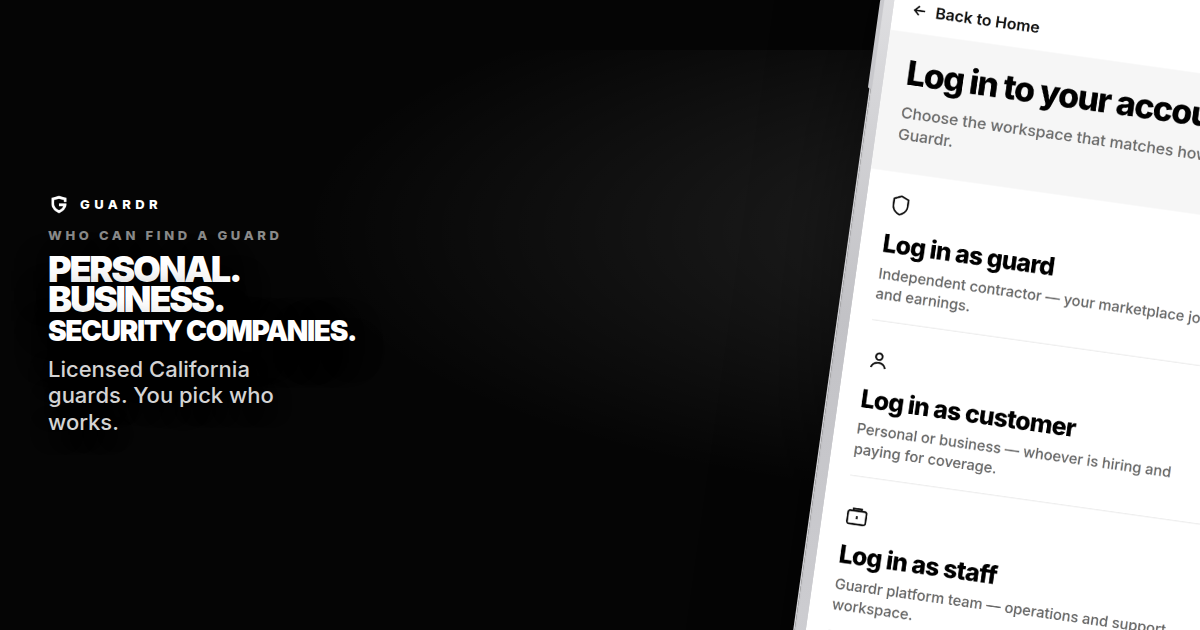
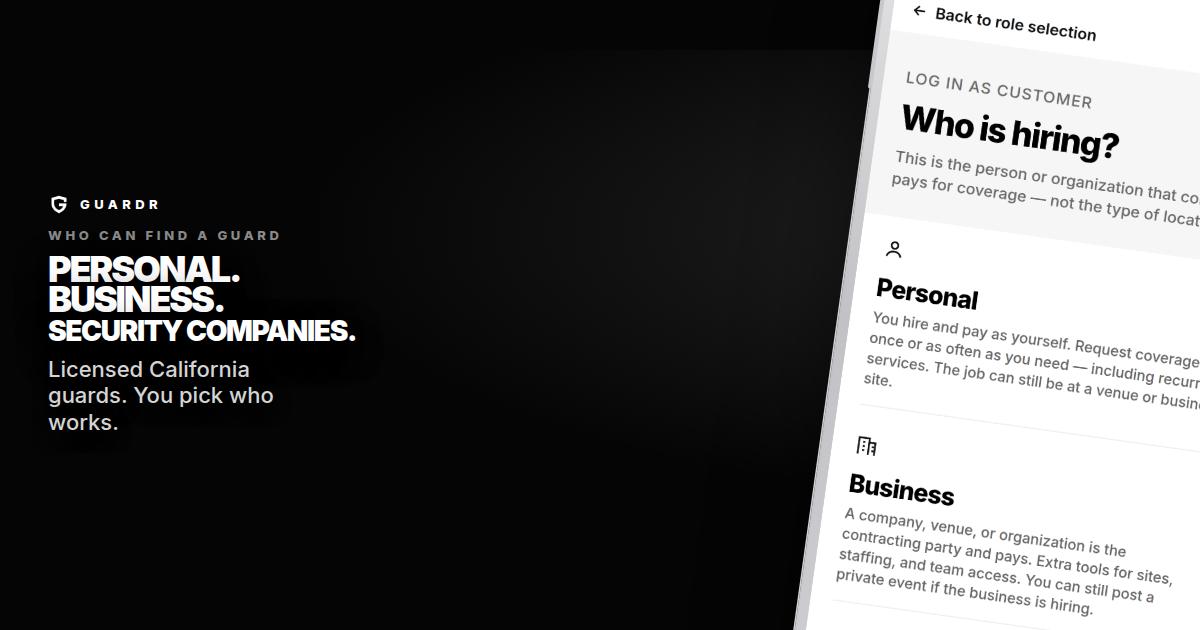
Show Who is hiring? on the who-can-find-a-guard promo
After Log in as customer: Personal vs Business — the contracting
party that pays, not the location type.

diff --git a/docs/marketing/promo-posts-today.md b/docs/marketing/promo-posts-today.md
@@ -13,7 +13,7 @@ Re-render carousels only: `node scripts/render-promo-posts.mjs --carousel`
 
 [`instagram/ig-who-finds.png`](../../assets/marketing/posts/instagram/ig-who-finds.png)
 
-Sign-in page on the phone. **PERSONAL. BUSINESS. SECURITY COMPANIES.**
+Sign-in page on the phone — **Who is hiring?** Personal or Business, after Log in as customer. **PERSONAL. BUSINESS. SECURITY COMPANIES.**
 
 **Caption:** Personal. Business. Security companies. Find licensed California guards — you pick who works.
 
@@ -37,7 +37,7 @@ Opens on **who can hire**, with the sign-in page on the phone. Ending cover is s
 
 | # | File | Screen | Line |
 |---|---|---|---|
-| 1 Cover | [`00-cover.png`](../../assets/marketing/posts/instagram/carousel-clients/00-cover.png) | Sign in | PERSONAL. BUSINESS. SECURITY COMPANIES. |
+| 1 Cover | [`00-cover.png`](../../assets/marketing/posts/instagram/carousel-clients/00-cover.png) | Who is hiring? | PERSONAL. BUSINESS. SECURITY COMPANIES. |
 | 2 | [`01-tonight.png`](../../assets/marketing/posts/instagram/carousel-clients/01-tonight.png) | Map | NEED A GUARD TONIGHT? |
 | 3 | [`02-post-pick.png`](../../assets/marketing/posts/instagram/carousel-clients/02-post-pick.png) | Jobs | POST A JOB. PICK A GUARD. |
 | 4 | [`03-chat.png`](../../assets/marketing/posts/instagram/carousel-clients/03-chat.png) | Chat | TALK TO WHO APPLIES. |

diff --git a/assets/marketing/posts/README.md b/assets/marketing/posts/README.md
@@ -2,7 +2,7 @@
 
 Ready-to-upload social pictures.
 
-- **Start here:** `instagram/ig-who-finds.png` — PERSONAL. BUSINESS. SECURITY COMPANIES. with the sign-in page on the phone
+- **Start here:** `instagram/ig-who-finds.png` — PERSONAL. BUSINESS. SECURITY COMPANIES. with the Who is hiring? screen (Personal / Business) on the phone
 - **Carousels (post these):** `instagram/carousel-clients/` opens on that same who-can-hire cover, then three different app screens, then Anytime. Anywhere. on the ending cover. `instagram/carousel-guards/` still opens Anytime. Anywhere.
 - **Phone pack:** `instagram/ig-marketplace.png` (YOU PICK WHO WORKS) plus `ig-tonight-map`, `ig-see-nearby`, `ig-no-dispatcher`, `ig-post-pick`, `ig-your-site`, `ig-open-call`, `ig-apply`, `ig-two-live`
 - **Captions:** [`docs/marketing/promo-posts-today.md`](../../../docs/marketing/promo-posts-today.md)
